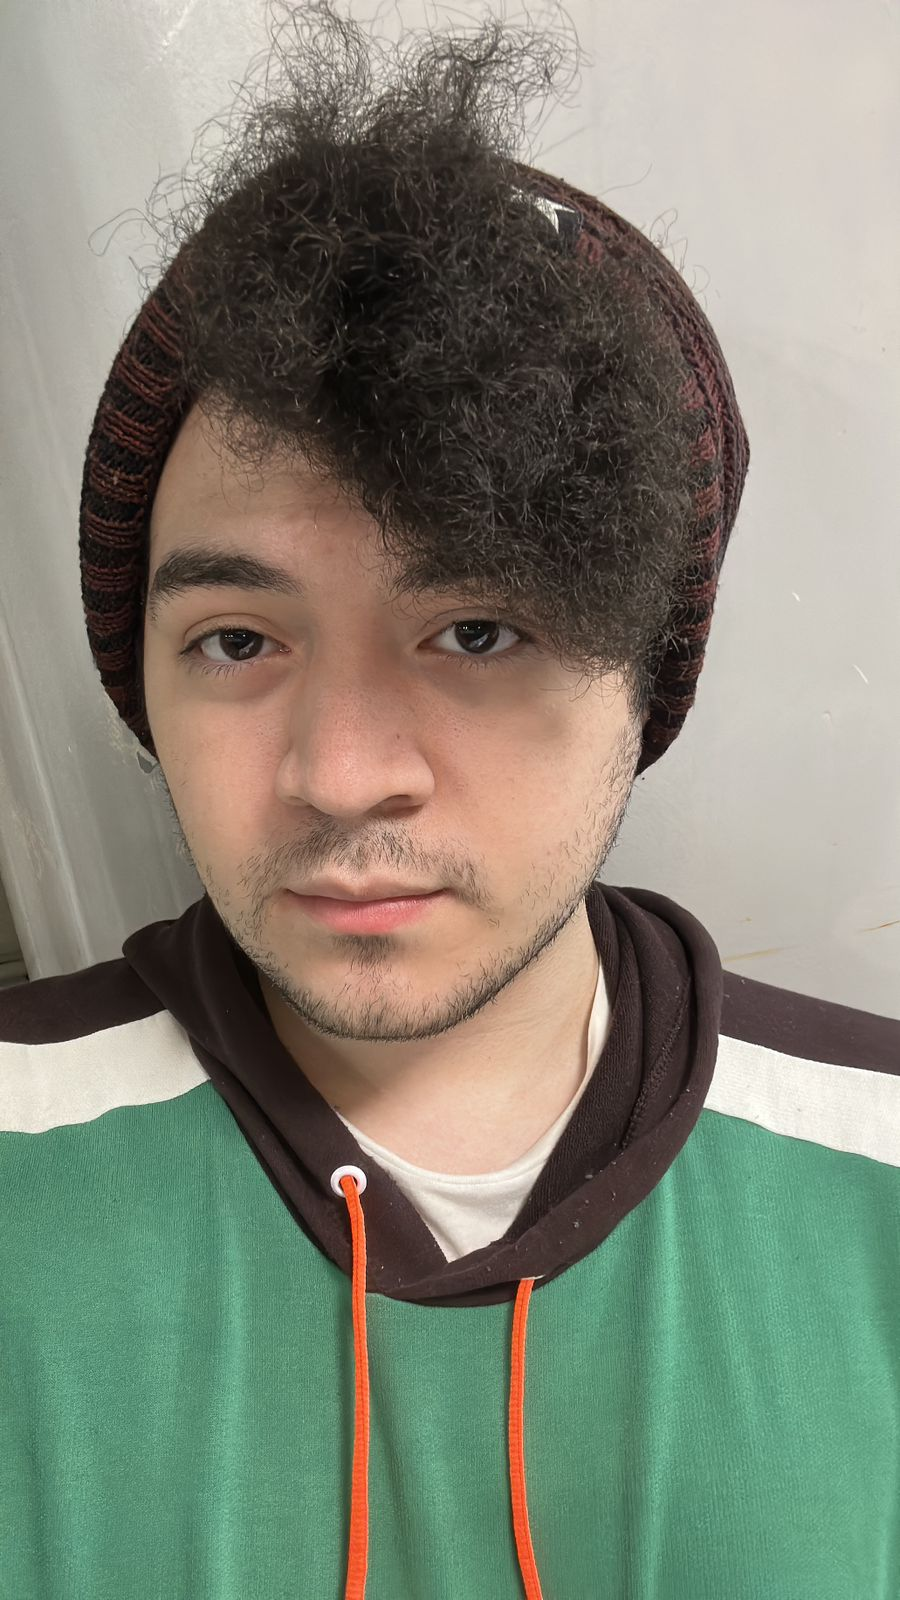
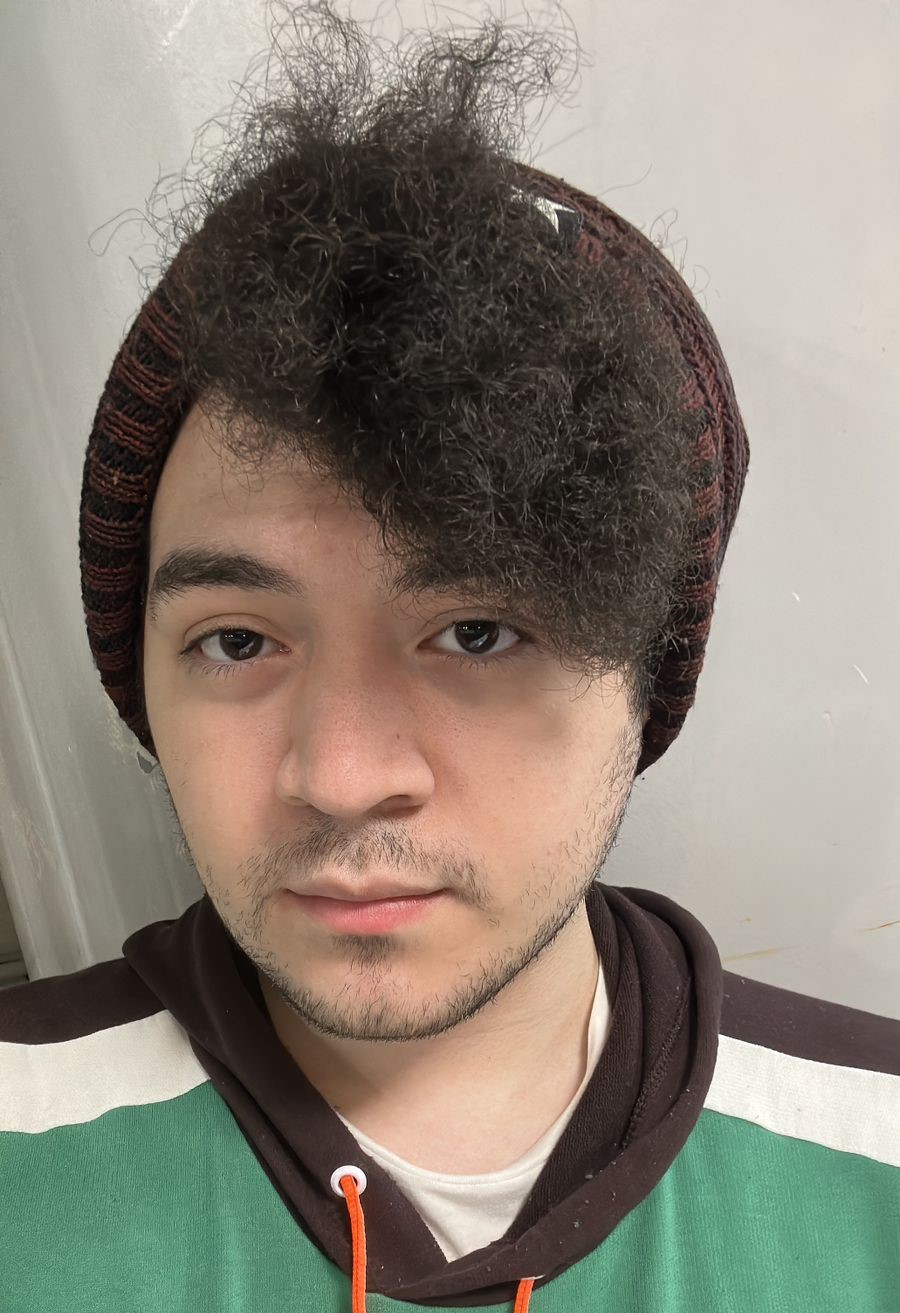
little changes

diff --git a/sections/about.jsx b/sections/about.jsx
@@ -57,23 +57,23 @@ const About = () => {
           <Image
             alt='about image'
             className={
-              "shadow-zinc-300 dark:shadow-zinc-700 shadow-sm transition-all duration-700 translate-x-[-900px] bg-blue-200 m-auto bg-cover bg-no-repeat max-h-[500px] rounded object-contain"
+              "shadow-zinc-300 dark:shadow-zinc-700 shadow-sm transition-all duration-700 translate-x-[-900px] bg-blue-200 m-auto bg-cover bg-no-repeat max-h-[300px] w-[300px] rounded-full object-cover"
             }
-            height={350}
+            height={250}
             ref={profile2Ref}
-            src='https://res.cloudinary.com/daoth80ez/image/upload/v1715197351/Media/qtw65xmqzpi1v1mge8jb.jpg'
-            width={350}
+            src='https://res.cloudinary.com/daoth80ez/image/upload/v1715228487/Media/su8brgz8ykb1s06sxxqi.jpg'
+            width={250}
           />
           <div
             className='text-lg translate-x-[900px] opacity-0 transition-all duration-700 mt-4 md:mt-0 md:w-[50%] text-center md:text-left rounded'
             ref={aboutInfoRef}
           >
             {/* Full Name */}
-            <p className='text-3xl text-center md:text-left font-semibold text-[#c72c6c] dark:text-[#07d0e5]'>
+            <p className='text-3xl text-center md:text-center font-semibold text-[#c72c6c] dark:text-[#07d0e5]'>
               Angel Marin
             </p>
             {/* Profil Name */}
-            <p className='text-center md:text-left text-white mt-1'>
+            <p className='text-center md:text-center text-black mt-1 dark:text-white'>
               Front End Developer
             </p>
             {/* Location */}
@@ -101,7 +101,7 @@ const About = () => {
                     <IoPerson />
                   </p>
                 </div>
-                <p className='text-center md:text-left text-[#c72c6c] dark:text-white'>
+                <p className='text-center md:text-left text-[#0b0c0c] dark:text-white'>
                   21
                 </p>
               </div>
@@ -116,7 +116,7 @@ const About = () => {
                     <BsMenuAppFill />
                   </p>
                 </div>
-                <p className='text-center md:text-left text-[#c72c6c] dark:text-white'>
+                <p className='text-center md:text-left text-[#0b0c0c] dark:text-white'>
                   3{" "}
                 </p>
               </div>
@@ -131,15 +131,15 @@ const About = () => {
                     <BsTranslate />
                   </p>
                 </div>
-                <p className='text-center md:text-left text-[#c72c6c] dark:text-white'>
+                <p className='text-center md:text-left text-[#0b0c0c] dark:text-white'>
                   Español, Ingles (B2)
                 </p>
               </div>
             </div>
-            
+
 
             <div className='mt-5 justify-evenly text-justify'>
-              <p className='text-gray-600 dark:text-gray-300'>
+              <p className='text-black dark:text-gray-300'>
                 Apasionado por la tecnología y el desarrollo web, me gusta la creación de aplicaciones web y móviles, en especial el diseño de interfaces de usuario y la experiencia de usuario. Con diseño UI/UX moderno y responsivo. Me gusta trabajar en equipo y aprender nuevas tecnologías.
               </p>
             </div>

diff --git a/sections/Skills.jsx b/sections/Skills.jsx
@@ -66,7 +66,7 @@ const TechStack = () => {
         >
           <button
             className={`w-[120px] md:w-[150px] p-2 font-bold ${
-              section === "Bueno" ? "bg-red-600" : null
+              section === "Bueno" ? "bg-[#c72c6c] dark:bg-[#07d0e5]" : null
             } transition-all`}
             onClick={(e) => {
               setSection(e.target.innerText);
@@ -78,7 +78,7 @@ const TechStack = () => {
           </button>
           <button
             className={`w-[120px] md:w-[150px] p-2 font-bold ${
-              section === "Suficiente" ? "bg-red-600" : null
+              section === "Suficiente" ? "bg-[#c72c6c] dark:bg-[#07d0e5]" : null
             } transition-all border-l border-r border-black dark:border-white border-solid`}
             onClick={(e) => {
               setSection(e.target.innerText);
@@ -90,7 +90,7 @@ const TechStack = () => {
           </button>
           <button
             className={`w-[100px] md:w-[150px] p-2 font-bold ${
-              section === "Familiar" ? "bg-red-600" : null
+              section === "Familiar" ? "bg-[#c72c6c] dark:bg-[#07d0e5]" : null
             } transition-all`}
             onClick={(e) => {
               setSection(e.target.innerText);

diff --git a/sections/Intro.jsx b/sections/Intro.jsx
@@ -68,14 +68,14 @@ const Intro = () => {
             <div className='mt-5 md:mt-10 flex gap-3'>
               {/* Hire Me Button */}
               <Link
-                className='text-white text-xl font-semibold rounded bg-red-400 hover:bg-red-500 px-2 py-1'
+                className='text-xl font-semibold rounded border border-[#c72c6c] hover:text-white hover:bg-[#c72c6c] 0 px-2 py-1 dark:border-[#07d0e5] dark:hover:bg-[#07d0e5] dark:hover:text-white'
                 href={"#getInTouch"}
               >
                 Contactame
               </Link>
               {/* Download CV Button */}
               <Link
-                className='text-xl font-semibold rounded border border-red-500 hover:text-white hover:bg-red-500 px-2 py-1'
+                className='text-xl font-semibold rounded border border-[#c72c6c] hover:text-white hover:bg-[#c72c6c] 0 px-2 py-1 dark:border-[#07d0e5] dark:hover:bg-[#07d0e5] dark:hover:text-white'
                 href='https://drive.google.com/file/d/1F3Zj_WdARmby9qcDNbTs--n3xg3pQFg4/view?usp=drive_link'
                 target='_blank'
               >

diff --git a/sections/Projects.jsx b/sections/Projects.jsx
@@ -64,13 +64,13 @@ const Project = () => {
                 }}
               >
                 <div
-                  className='bg-red-600 p-1 cursor-pointer'
+                  className='bg-white p-1 cursor-pointer'
                   onMouseLeave={() => setHeight1("")}
                   onMouseMove={() => setHeight1(project.projectName)}
                 >
                   {/* Project Name */}
                   <p
-                    className='text-white text-center'
+                    className='text-black text-center'
                     onClick={() =>
                       setHeight1(height1 === "" ? project.projectName : "")
                     }

diff --git a/sections/experience.jsx b/sections/experience.jsx
@@ -61,7 +61,7 @@ const Experience = () => {
                   }
                 >
                   <div className='flex justify-between gap-2'>
-                    <p className='text-xl md:text-2xl font-bold text-red-600'>
+                    <p className='text-xl md:text-2xl font-bold text-[#c72c6c]'>
                       {experience.companyName}
                     </p>
                     <p className='flex gap-2 items-center text-blue-500'>

diff --git a/sections/education.jsx b/sections/education.jsx
@@ -62,7 +62,7 @@ const Education = () => {
                 width={150}
               />
               <div className='flex flex-col gap-2 p-3 md:p-1'>
-                <p className='text-xl md:text-2xl font-bold text-red-600'>
+                <p className='text-xl md:text-2xl font-bold text-[#c72c6c]'>
                   {education.name}
                 </p>
                 <p>{education.schoolOrCollege}</p>

diff --git a/utils/SocialMedia.jsx b/utils/SocialMedia.jsx
@@ -10,7 +10,7 @@ const SocialMedia = () => {
 
   return (
     <Fragment>
-      <div className='absolute left-14 bottom-10 flex flex-col gap-4 z-10'>
+      <div className='absolute right-14 bottom-10 flex flex-col gap-4 z-10'>
         {SocialMediaData.map((social, key) => (
           <Link className='w-fit' href={social.link} key={key}>
             <div
